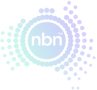
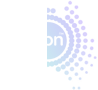
nbn explained page update

Changed region(s): [[0.0, 0.0889, 0.4948, 0.8], [0.0619, 0.6667, 0.1237, 0.7111], [0.0309, 0.6, 0.0619, 0.6444]]

diff --git a/src/app/containers/nbn-explained/Install/style.scss b/src/app/containers/nbn-explained/Install/style.scss
@@ -54,7 +54,7 @@
   img {
     z-index: 10;
     position: absolute;
-    margin-left: -30px;
+    margin-left: -47px;
     margin-top: 30px;
   }
 }
